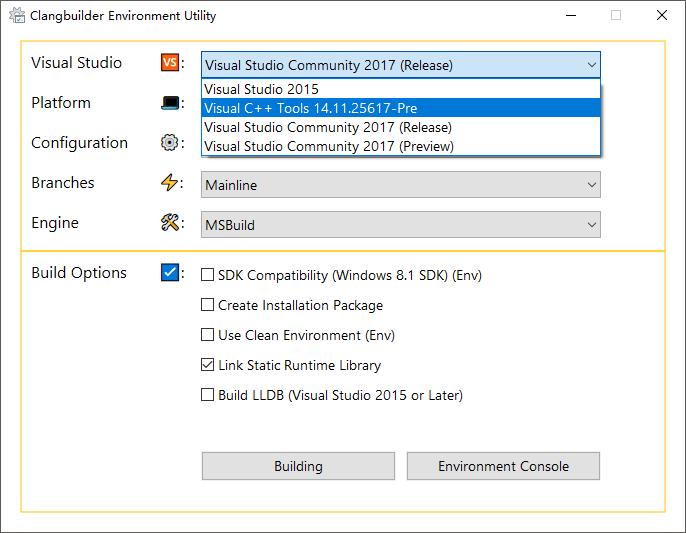
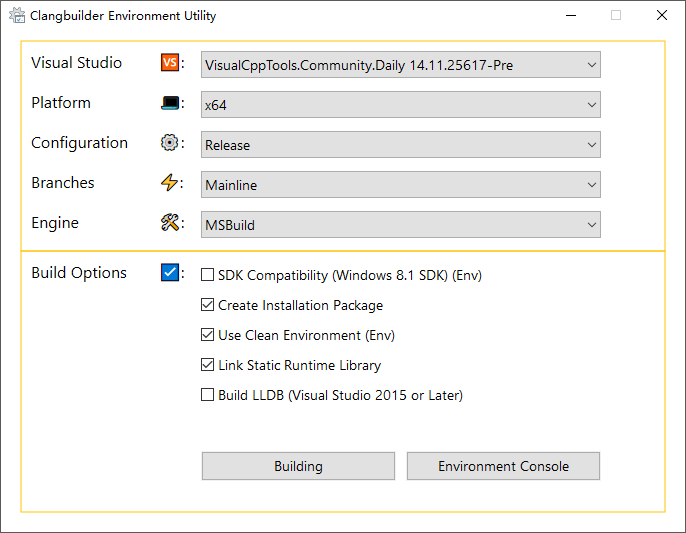
VisualCppTools.Community.Daily Name fix

Changed region(s): [[0.2755, 0.0901, 0.8878, 0.3002]]

diff --git a/tools/ClangbuilderUI/VisualStudioSearch.cpp b/tools/ClangbuilderUI/VisualStudioSearch.cpp
@@ -173,9 +173,9 @@ bool VisualStudioSearch(const std::wstring &cbroot, std::vector<VisualStudioInst
 		VisualStudioInstance vs;
 		vs.description.assign(version);
 		vs.instanceId.assign(L"VisualCppTools");
-		if (version.size() > sizeof("Visual C++ Tools ") - 1)
+		if (version.size() > sizeof("VisualCppTools.Community.Daily ") - 1)
 		{
-			vs.installversion.assign(version.substr(sizeof("Visual C++ Tools ") - 1));
+			vs.installversion.assign(version.substr(sizeof("VisualCppTools.Community.Daily ") - 1));
 		}
 		else
 		{

diff --git a/ReadMe.md b/ReadMe.md
@@ -35,7 +35,7 @@ Click the `script/InitializeEnv.bat`
 
 The installation script will compile ClangbuilderUI and create a shortcut, download required packages.
 
-If your need install `VisualCppTools for Daily` ,click `script/VisualCppToolsFetch.bat`
+If your need install `VisualCppTools.Community.Daily` ,click `script/VisualCppToolsFetch.bat`
 
 
 ## Build Clang on Windows
